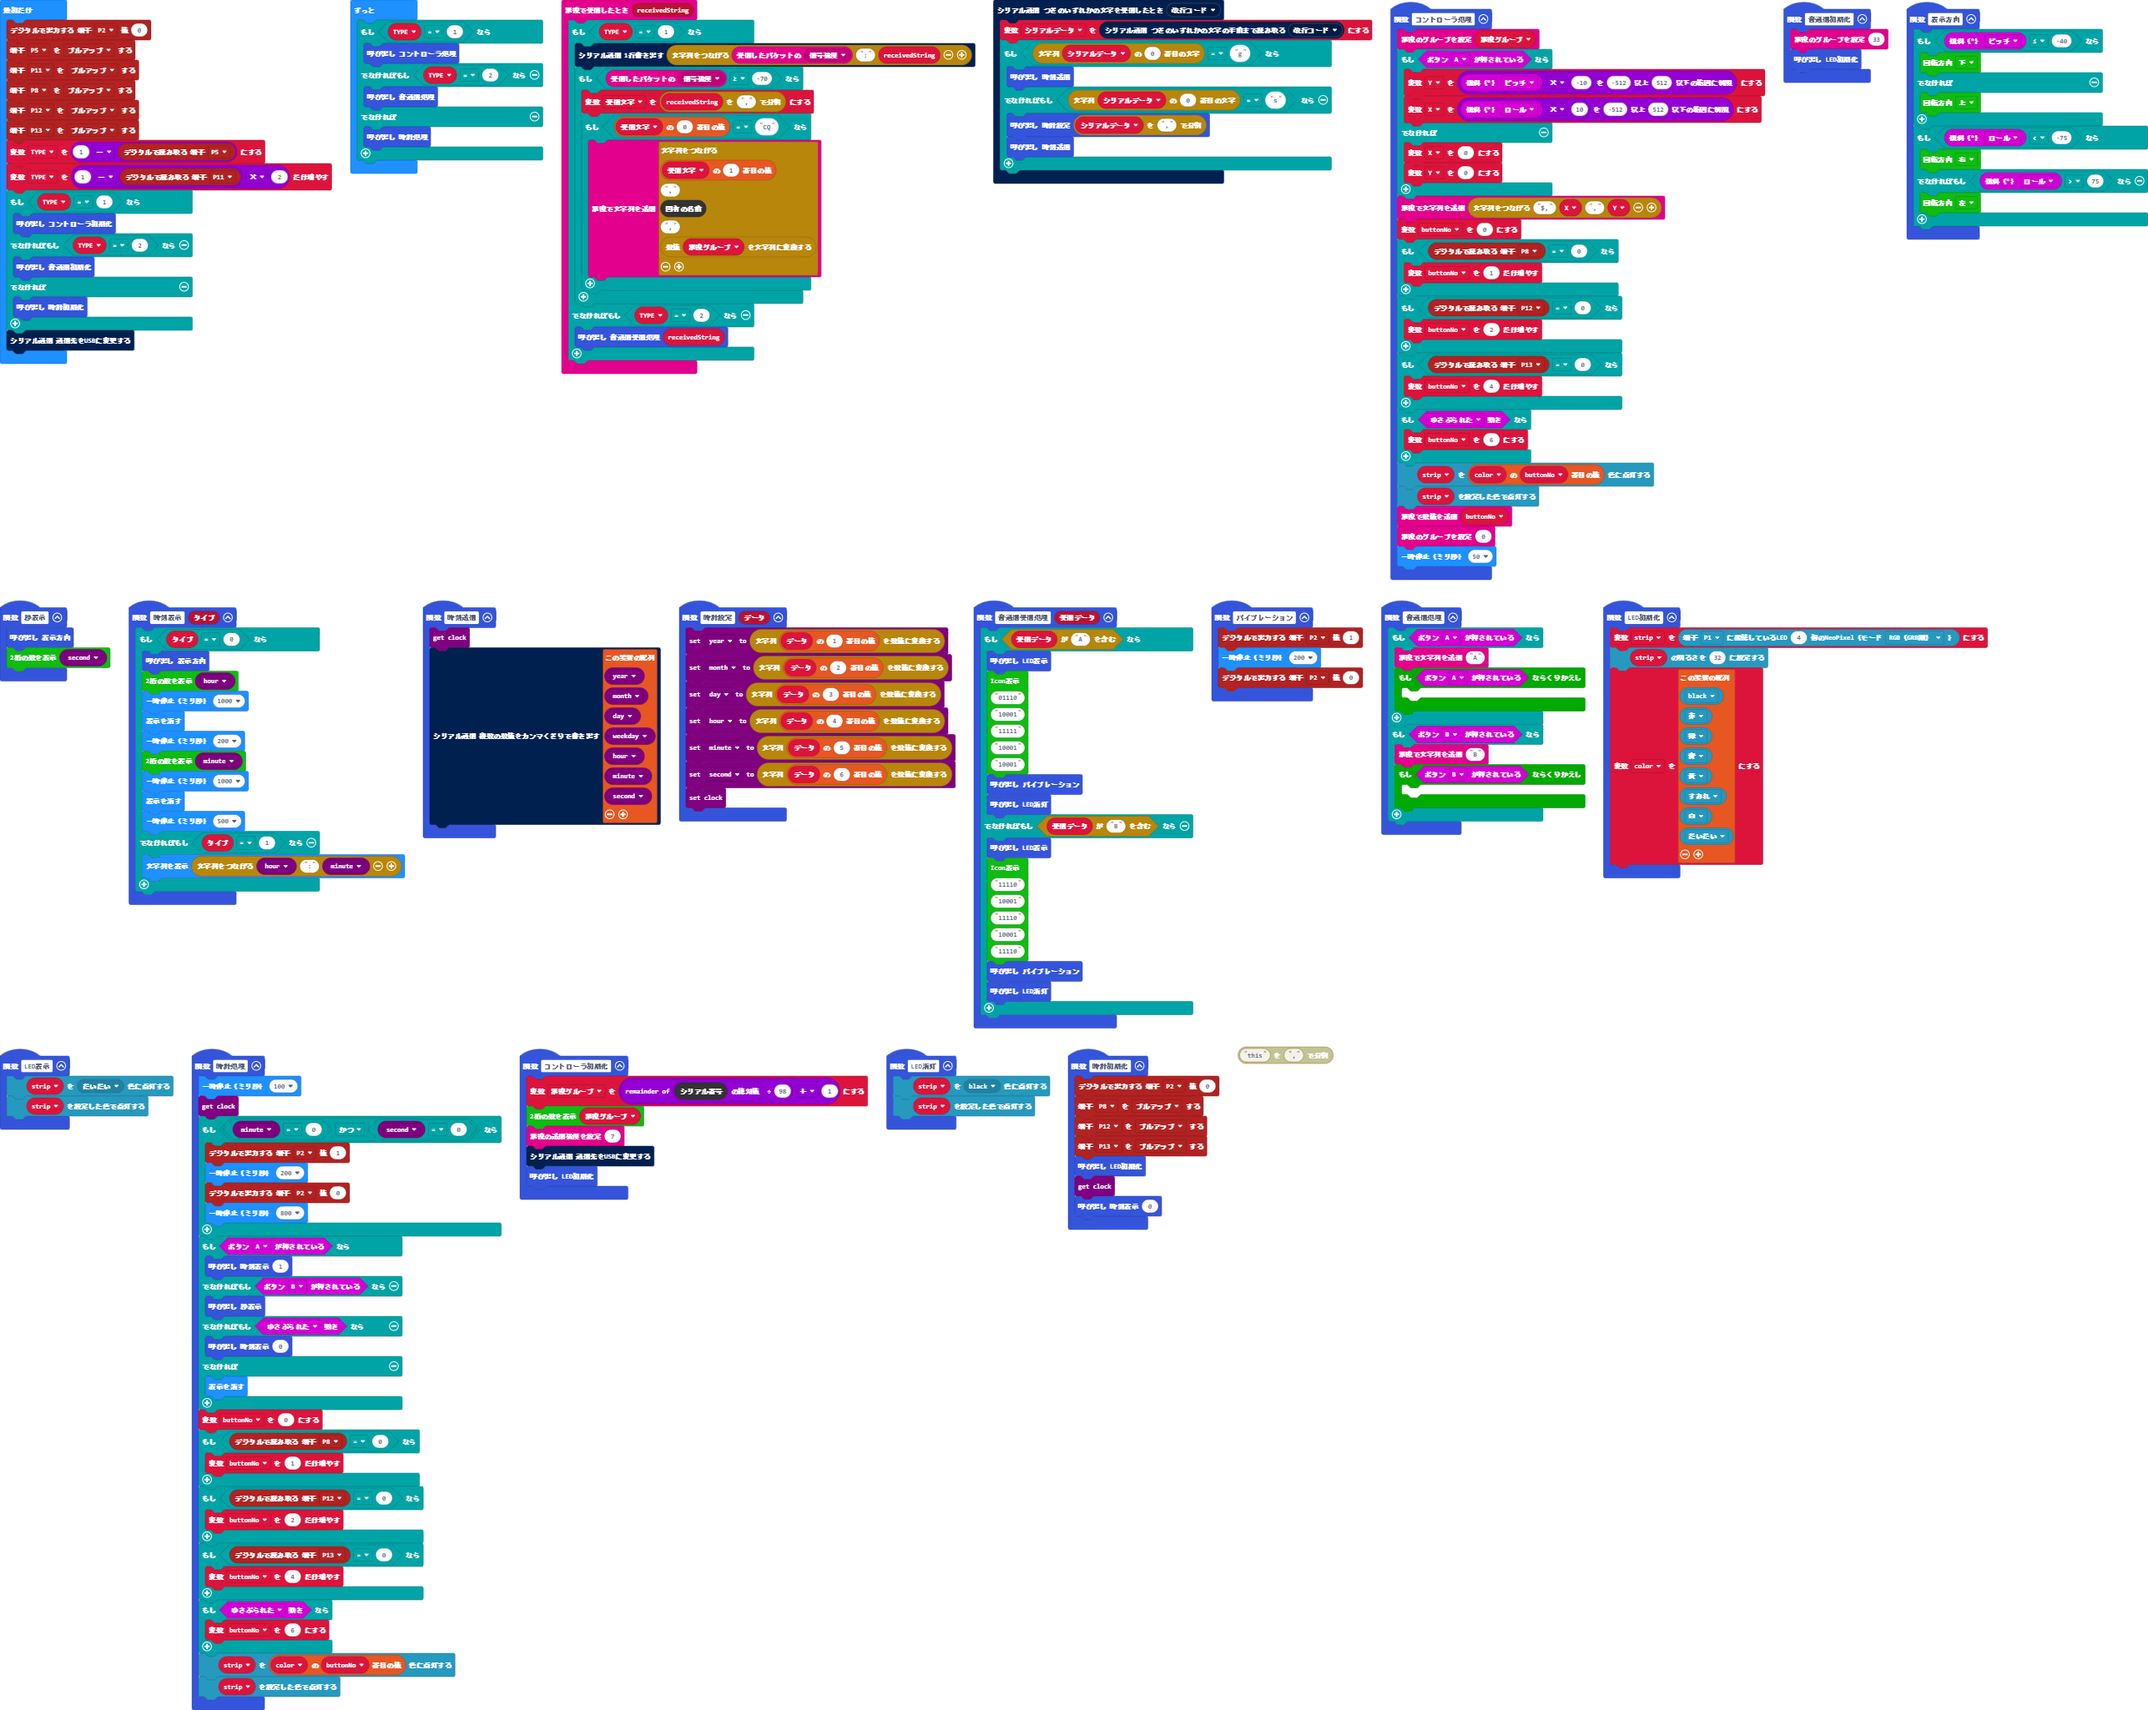
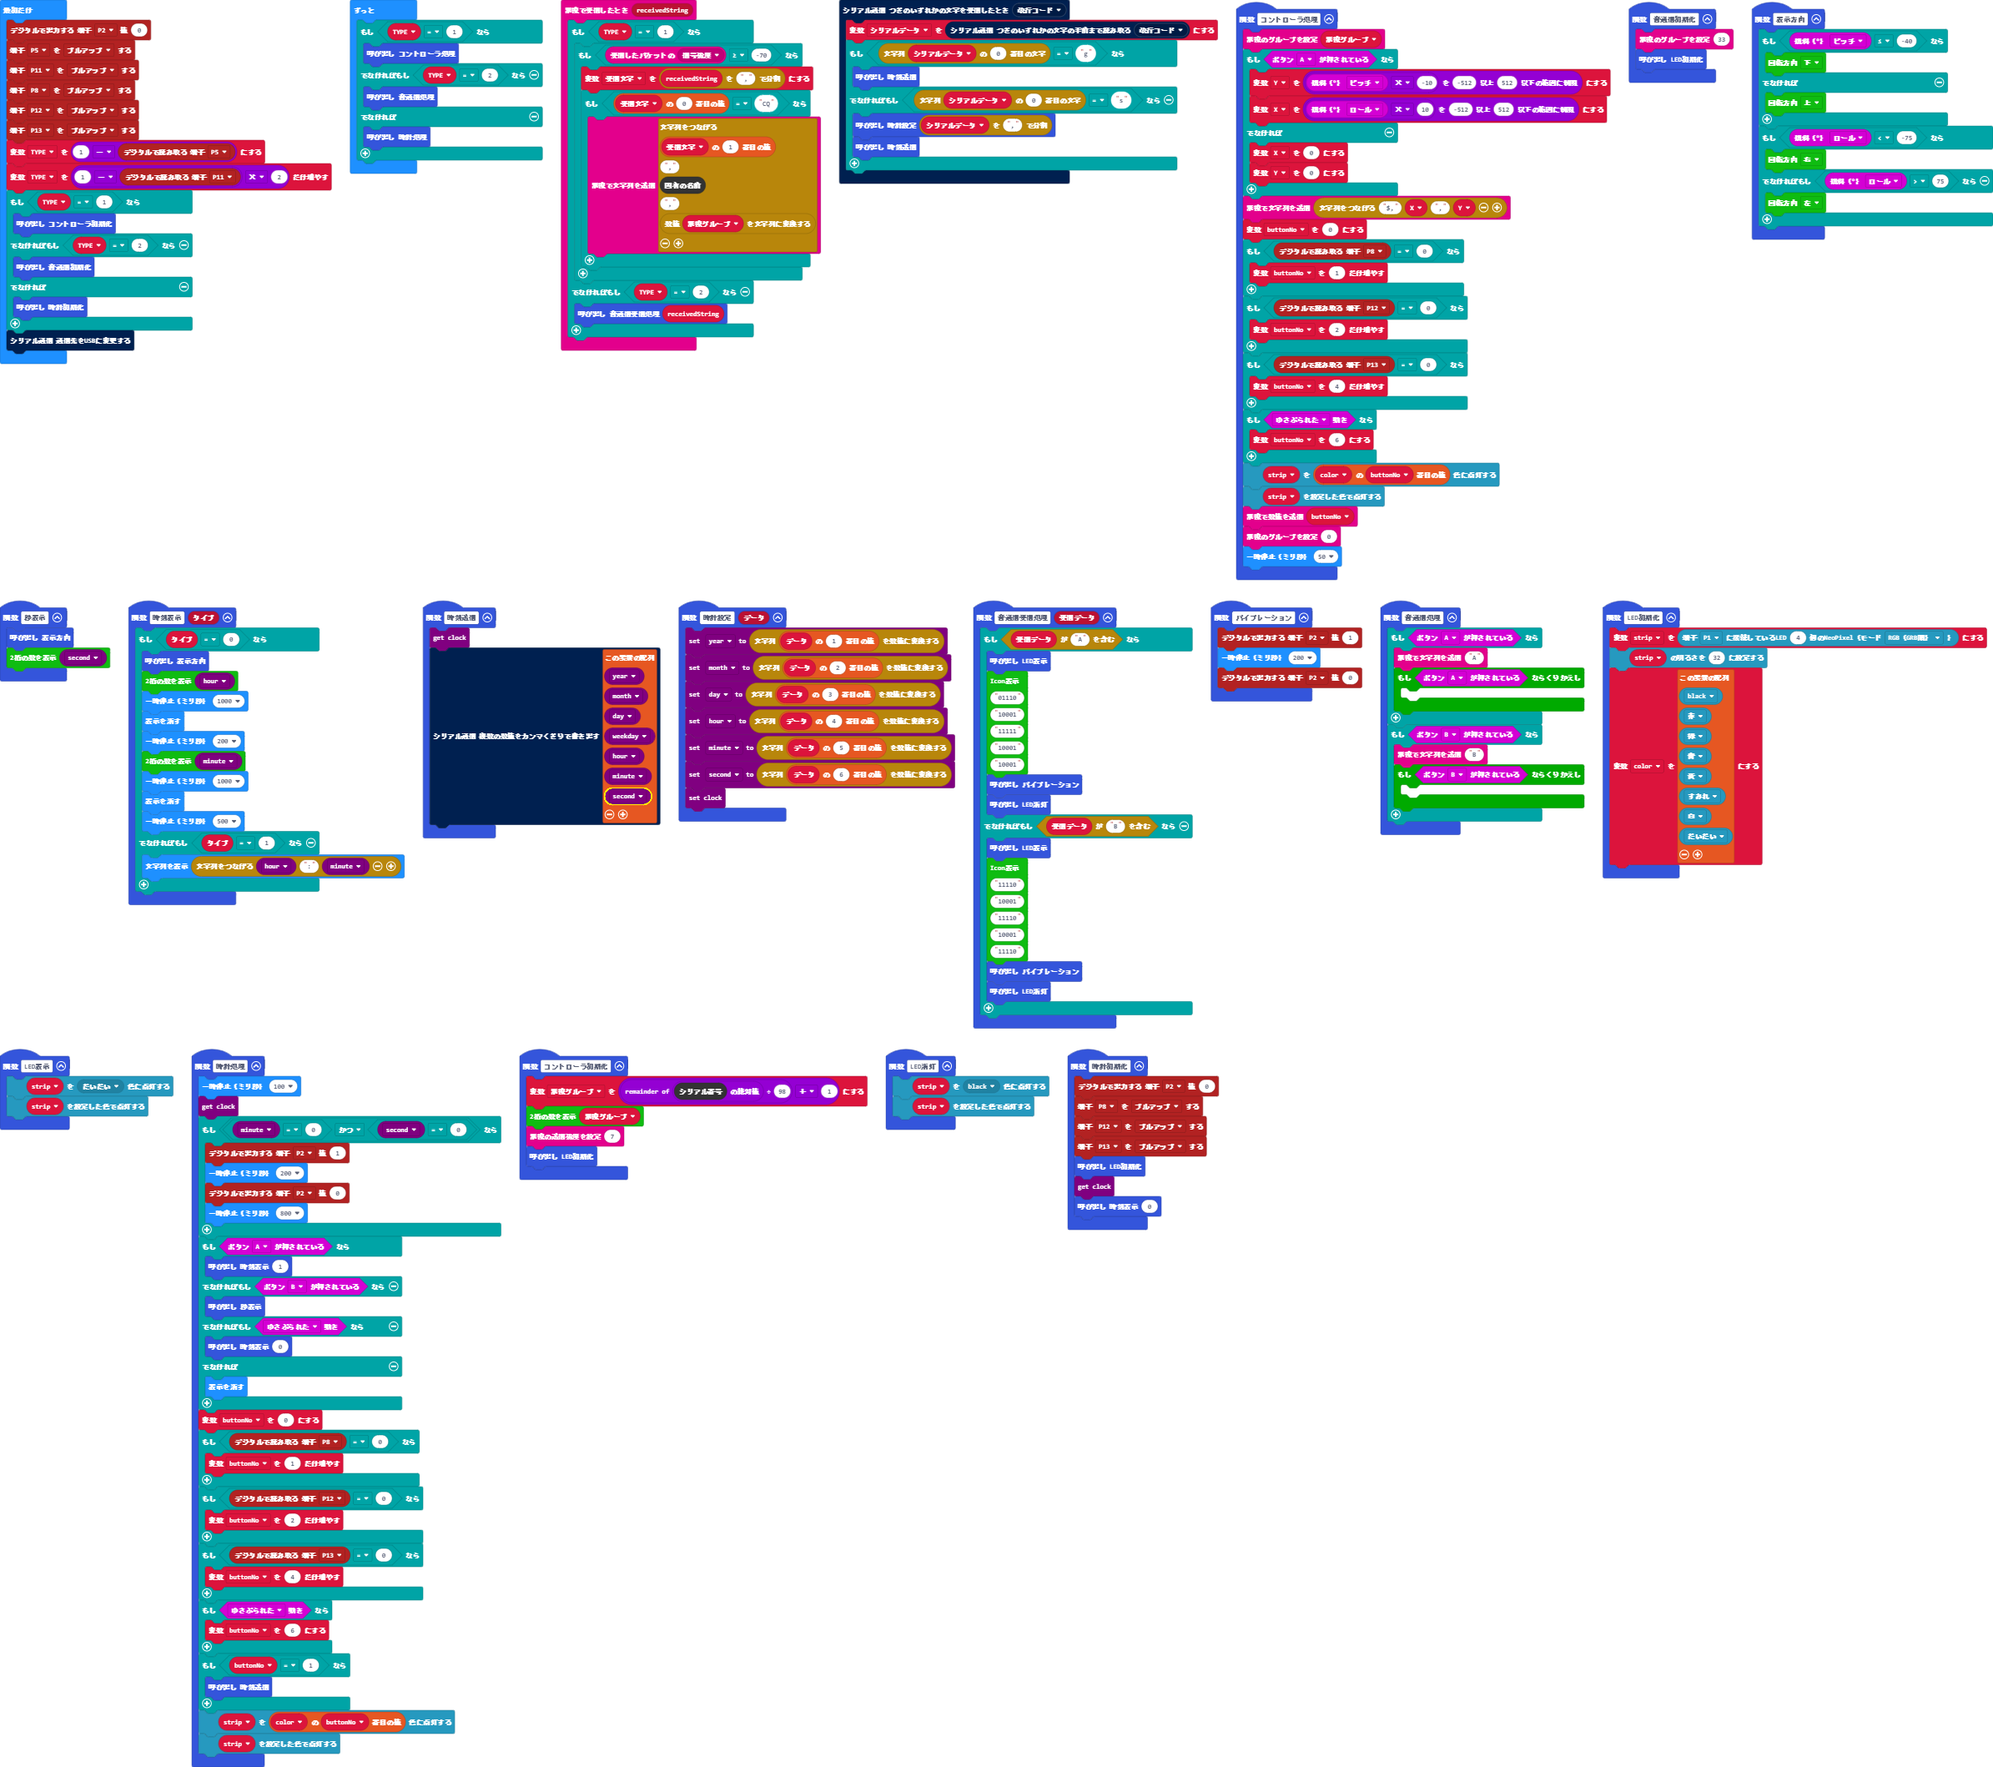
更新 main.blocks, main.ts

Changed region(s): [[0.0, 0.0, 1.0, 1.0]]

diff --git a/main.ts b/main.ts
@@ -101,6 +101,9 @@ function 時計処理 () {
     if (input.isGesture(Gesture.Shake)) {
         buttonNo = 6
     }
+    if (buttonNo == 1) {
+        時刻送信()
+    }
     strip.showColor(color[buttonNo])
     strip.show()
 }
@@ -165,7 +168,6 @@ function 音通信受信処理 (受信データ: string) {
 }
 radio.onReceivedString(function (receivedString) {
     if (TYPE == 1) {
-        serial.writeLine("" + radio.receivedPacket(RadioPacketProperty.SignalStrength) + ":" + receivedString)
         if (radio.receivedPacket(RadioPacketProperty.SignalStrength) >= -70) {
             受信文字 = receivedString.split(",")
             if (受信文字[0] == "CQ") {
@@ -189,7 +191,6 @@ function コントローラ初期化 () {
     無線グループ = Math.abs(control.deviceSerialNumber()) % 98 + 1
     watchfont.showNumber2(無線グループ)
     radio.setTransmitPower(7)
-    serial.redirectToUSB()
     LED初期化()
 }
 function LED初期化 () {
